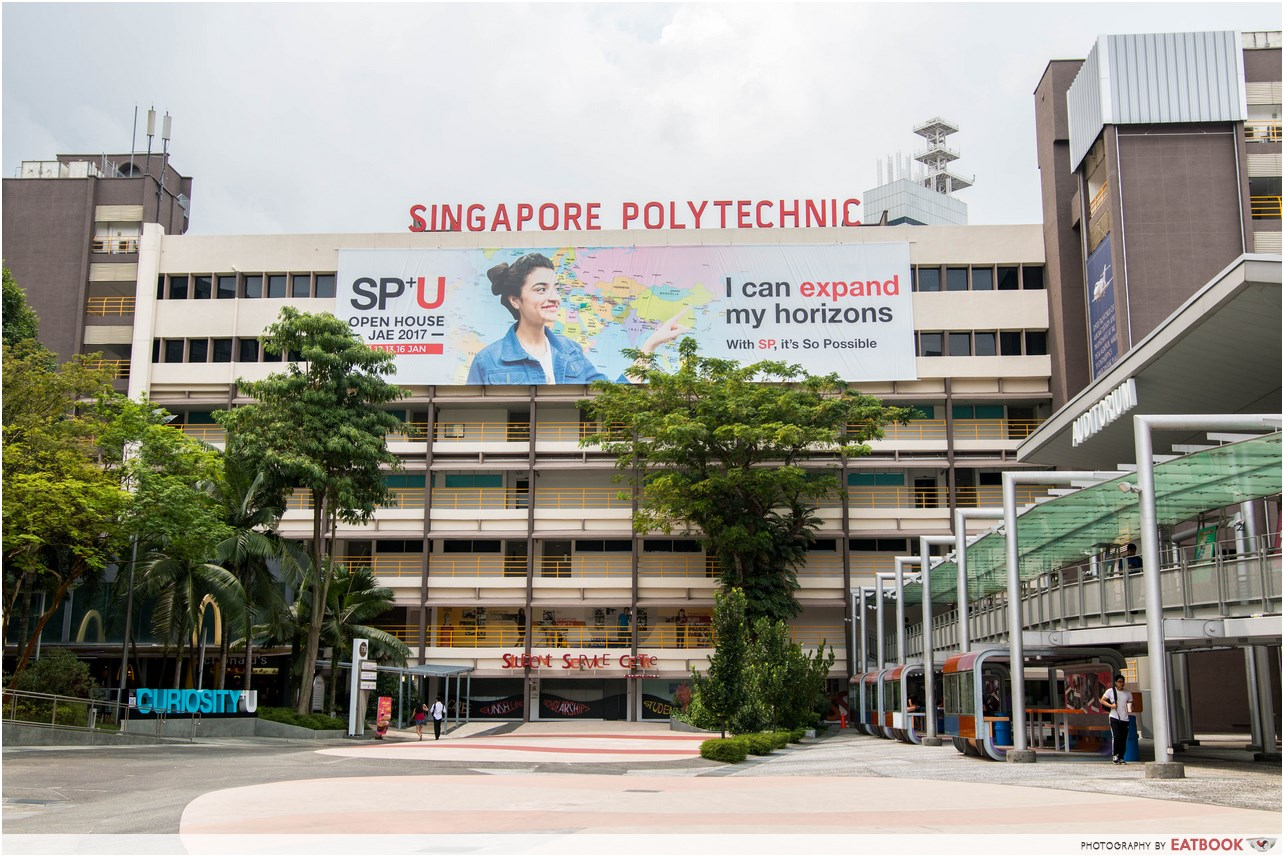
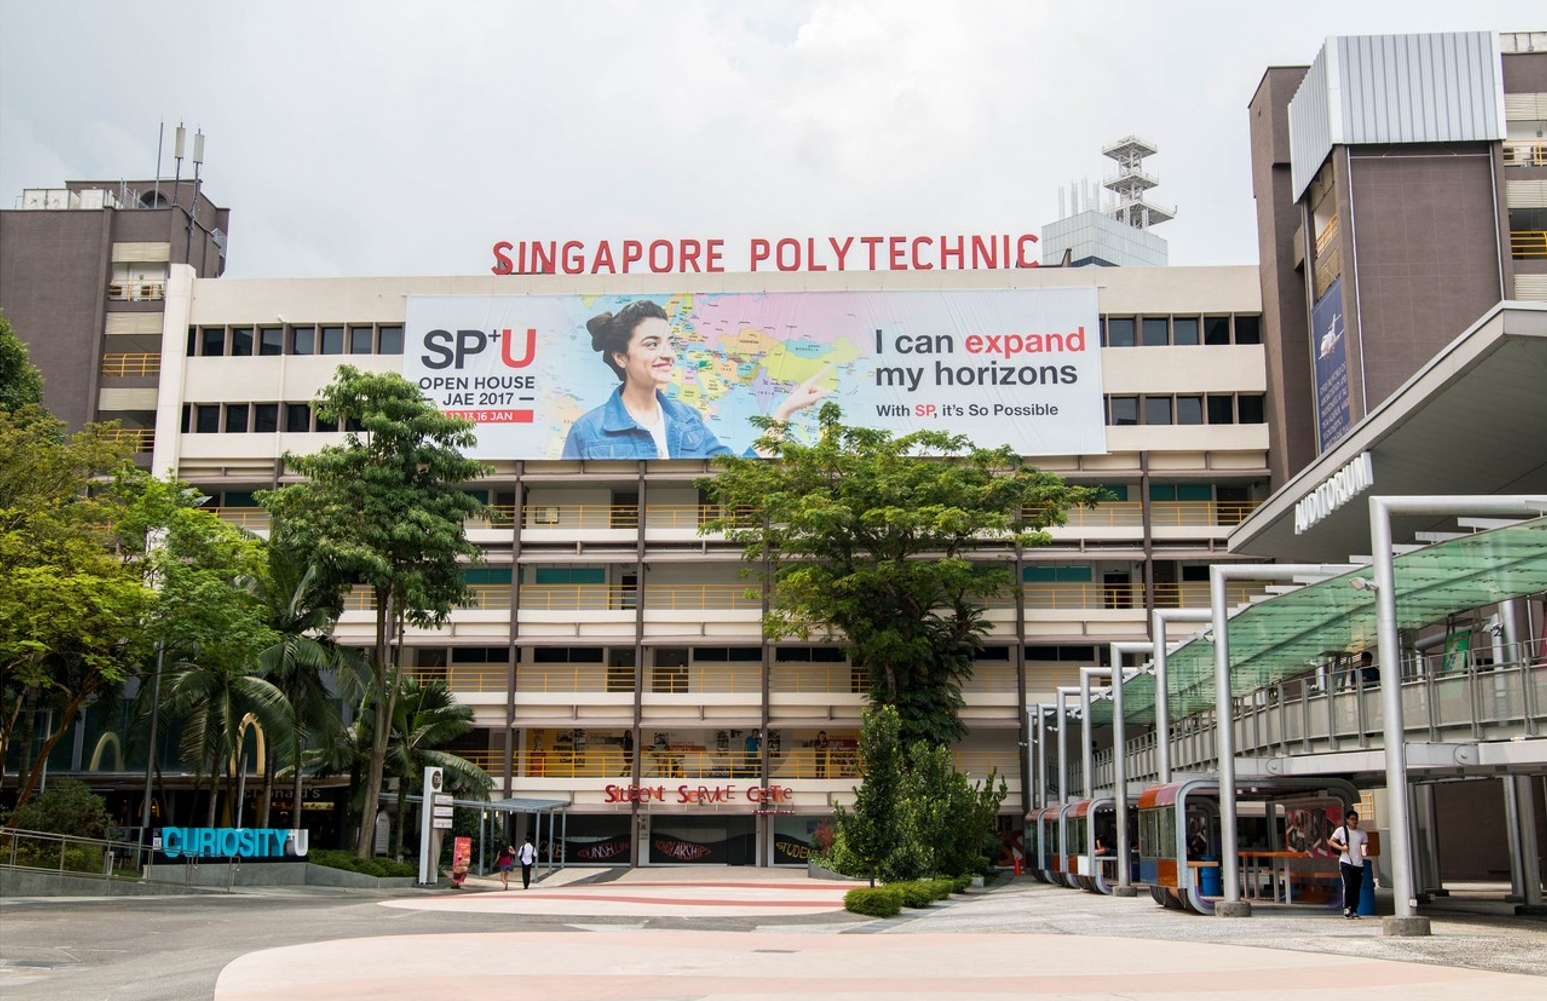
Home update - JY

diff --git a/assets/styles/index.css b/assets/styles/index.css
@@ -24,16 +24,6 @@ body {
   pointer-events: none;
 }
 
-.hero-title {
-  position: absolute;
-  top: 2rem;
-  left: 2rem;
-  font-weight: 700;
-  font-size: 2.25rem;
-  z-index: 2;
-  color: #fff;
-}
-
 .hero-carousel #soc-carousel {
   max-width: 100%;   /* full width, no side insets */
   margin: 0;          /* no centering needed anymore */
@@ -62,6 +52,97 @@ body {
 .carousel-control-prev,
 .carousel-control-next {
   width: 5%;
+}
+
+/* ===== Intro bookmark panel ===== */
+.intro-bookmark {
+  position: absolute;
+  top: 2rem;
+  left: 0;
+  z-index: 3;
+  --bookmark-width: 420px;
+  --bookmark-peek: 3.25rem; /* width of the strip that stays visible when minimized */
+}
+
+.intro-bookmark-panel {
+  width: var(--bookmark-width);
+  background: rgba(67, 97, 238, 0.92);
+  border-radius: 0 12px 12px 0;
+  box-shadow: 4px 4px 16px rgba(0, 0, 0, 0.25);
+  transform: translateX(calc(-100% + var(--bookmark-peek))); /* only the toggle icon stays on screen */
+  transition: transform 0.5s ease;
+}
+
+.intro-bookmark.is-open .intro-bookmark-panel {
+  transform: translateX(0);
+}
+
+.intro-bookmark-header {
+  display: flex;
+  align-items: stretch;
+}
+
+.intro-bookmark-tab {
+  flex: 1;
+  min-width: 0; /* allows text to be clipped instead of forcing the header to grow */
+  display: flex;
+  align-items: center;
+  justify-content: space-between;
+  gap: 0.75rem;
+  background: none;
+  border: none;
+  color: #fff;
+  font-weight: 700;
+  font-size: 1.5rem;
+  padding: 1rem 1.5rem;
+  cursor: pointer;
+  text-align: left;
+}
+
+.intro-bookmark-title {
+  white-space: nowrap;
+  overflow: hidden;
+  text-overflow: ellipsis;
+}
+
+.intro-bookmark-chevron {
+  font-size: 0.9rem;
+  flex-shrink: 0;
+  transition: transform 0.3s ease;
+}
+
+.intro-bookmark.is-expanded .intro-bookmark-chevron {
+  transform: rotate(180deg);
+}
+
+.intro-bookmark-toggle {
+  flex-shrink: 0;
+  width: var(--bookmark-peek);
+  background: rgba(0, 0, 0, 0.15);
+  border: none;
+  color: #fff;
+  font-size: 1.25rem;
+  cursor: pointer;
+  border-radius: 0 12px 12px 0;
+}
+
+.intro-bookmark-toggle:hover {
+  background: rgba(0, 0, 0, 0.28);
+}
+
+.intro-bookmark-content {
+  max-height: 0;
+  padding: 0 1.5rem;
+  overflow: hidden;
+  transition: max-height 0.4s ease, padding 0.4s ease;
+  color: #fff;
+  font-size: 0.95rem;
+  line-height: 1.5;
+}
+
+.intro-bookmark.is-expanded .intro-bookmark-content {
+  max-height: 150px;
+  padding: 0 1.5rem 1.25rem;
 }
 
 /* ===== Speech bubble cards ===== */
@@ -134,15 +215,24 @@ body {
 
 .hero-carousel .carousel-control-prev-icon,
 .hero-carousel .carousel-control-next-icon {
-  background-color: rgba(67, 97, 238, 0.6);
+  background-color: rgba(67, 97, 238, 0.6); /* transparent by default — always, unless actively hovered */
   border-radius: 50%;
-  padding: 1.25rem;
-  background-size: 50%; /* keeps the arrow glyph from being oversized inside the circle */
+  padding: 1.6rem;
+  background-size: 55%;
+  box-shadow: 0 2px 10px rgba(0, 0, 0, 0.35);
+  transition: background-color 0.2s ease, transform 0.2s ease;
 }
 
 .hero-carousel .carousel-control-prev:hover .carousel-control-prev-icon,
 .hero-carousel .carousel-control-next:hover .carousel-control-next-icon {
-  background-color: rgba(67, 97, 238, 0.6); /* slightly darker on hover for feedback */
+  background-color: #4361ee; /* solid blue only while the mouse is genuinely hovering */
+  transform: scale(1.08);
+}
+
+.hero-carousel .carousel-control-prev,
+.hero-carousel .carousel-control-next {
+  outline: none;
+  box-shadow: none; /* removes Bootstrap's default focus ring */
 }
 
 @media (max-width: 576px) {
@@ -159,9 +249,14 @@ body {
     min-height: 0; /* same fix at the outer level, so no extra blue space is reserved */
   }
 
-  .hero-title {
-    font-size: 1.5rem;
+  .intro-bookmark {
     top: 1rem;
-    left: 1rem;
+    --bookmark-width: 85vw;
+    --bookmark-peek: 2.75rem;
+  }
+
+  .intro-bookmark-tab {
+    font-size: 1.1rem;
+    padding: 0.75rem 1rem;
   }
 }

diff --git a/assets/scripts/index.js b/assets/scripts/index.js
@@ -1,0 +1,103 @@
+// assets/scripts/index.js
+document.addEventListener('DOMContentLoaded', () => {
+    const bookmark = document.getElementById('intro-bookmark');
+    const toggleBtn = document.getElementById('intro-bookmark-toggle');
+    const tab = document.getElementById('intro-bookmark-tab');
+    if (!bookmark || !toggleBtn || !tab) return;
+  
+    let autoCloseTimer = null;
+  
+    function startAutoCloseTimer() {
+      clearTimeout(autoCloseTimer);
+      autoCloseTimer = setTimeout(() => {
+        minimizePanel();
+      }, 7000);
+    }
+  
+    function openPanel() {
+      bookmark.classList.add('is-open');
+      startAutoCloseTimer();
+    }
+  
+    function minimizePanel() {
+      clearTimeout(autoCloseTimer);
+      bookmark.classList.remove('is-open');
+      bookmark.classList.remove('is-expanded'); // also collapse the description when minimized
+    }
+  
+    function toggleOpenState() {
+      if (bookmark.classList.contains('is-open')) {
+        minimizePanel();
+      } else {
+        openPanel();
+      }
+    }
+  
+    function toggleDescription() {
+      bookmark.classList.toggle('is-expanded');
+    }
+  
+    // The hamburger icon (always visible, whether open or minimized) toggles open/minimized
+    toggleBtn.addEventListener('click', toggleOpenState);
+  
+    // Clicking the title bar toggles the short description open/closed
+    tab.addEventListener('click', toggleDescription);
+  
+    // Pause the auto-close countdown while the mouse is hovering the panel,
+    // and restart a fresh countdown once the mouse leaves
+    const panel = bookmark.querySelector('.intro-bookmark-panel');
+    if (panel) {
+      panel.addEventListener('mouseenter', () => {
+        clearTimeout(autoCloseTimer);
+      });
+  
+      panel.addEventListener('mouseleave', () => {
+        if (bookmark.classList.contains('is-open')) {
+          startAutoCloseTimer();
+        }
+      });
+    }
+  
+    // Auto-open on page load
+    openPanel();
+  
+    // ===== Carousel rapid-click fix =====
+    // Clicking prev/next again before a slide transition finishes can leave
+    // two slides marked "active" at once, causing an overlap/flicker.
+    // Block extra clicks until the current transition has fully completed.
+    const carouselEl = document.getElementById('soc-carousel');
+    if (carouselEl) {
+      let isSliding = false;
+  
+      carouselEl.addEventListener('slide.bs.carousel', () => {
+        isSliding = true;
+      });
+  
+      carouselEl.addEventListener('slid.bs.carousel', () => {
+        isSliding = false;
+      });
+  
+      const controls = carouselEl.querySelectorAll(
+        '.carousel-control-prev, .carousel-control-next, .carousel-indicators button'
+      );
+  
+      controls.forEach((btn) => {
+        btn.addEventListener(
+          'click',
+          (e) => {
+            if (isSliding) {
+              e.preventDefault();
+              e.stopImmediatePropagation();
+            }
+          },
+          true // capture phase, so this runs before Bootstrap's own click handler
+        );
+  
+        // Remove focus after clicking so no leftover focus styling sticks
+        // once the mouse moves away from the button
+        btn.addEventListener('click', () => {
+          btn.blur();
+        });
+      });
+    }
+  });

diff --git a/index.html b/index.html
@@ -15,7 +15,20 @@
     <main>
     <!-- Hero carousel section -->
     <section class="hero-carousel position-relative">
-      <div class="hero-title">Introduction to SOC...</div>
+      <div class="intro-bookmark" id="intro-bookmark">
+        <div class="intro-bookmark-panel">
+          <div class="intro-bookmark-header">
+            <button class="intro-bookmark-tab" id="intro-bookmark-tab" aria-label="Toggle introduction description">
+              <span class="intro-bookmark-title">Introduction to SOC...</span>
+              <i class="intro-bookmark-chevron bi bi-chevron-down" aria-hidden="true"></i>
+            </button>
+            <button class="intro-bookmark-toggle" id="intro-bookmark-toggle" aria-label="Minimize or open introduction">☰</button>
+          </div>
+          <div class="intro-bookmark-content">
+            <p>Welcome to the School of Computing portal. Here you'll find navigation help, wellness resources, campus announcements, and tools to support you throughout your studies.</p>
+          </div>
+        </div>
+      </div>
     
       <div id="soc-carousel" class="carousel slide" data-bs-ride="carousel">
         <div class="carousel-inner">
@@ -95,5 +108,6 @@
       crossorigin="anonymous"
     ></script>
     <script src="assets/scripts/recent-visits.js"></script>
+    <script src="assets/scripts/index.js"></script>
   </body>
 </html>
